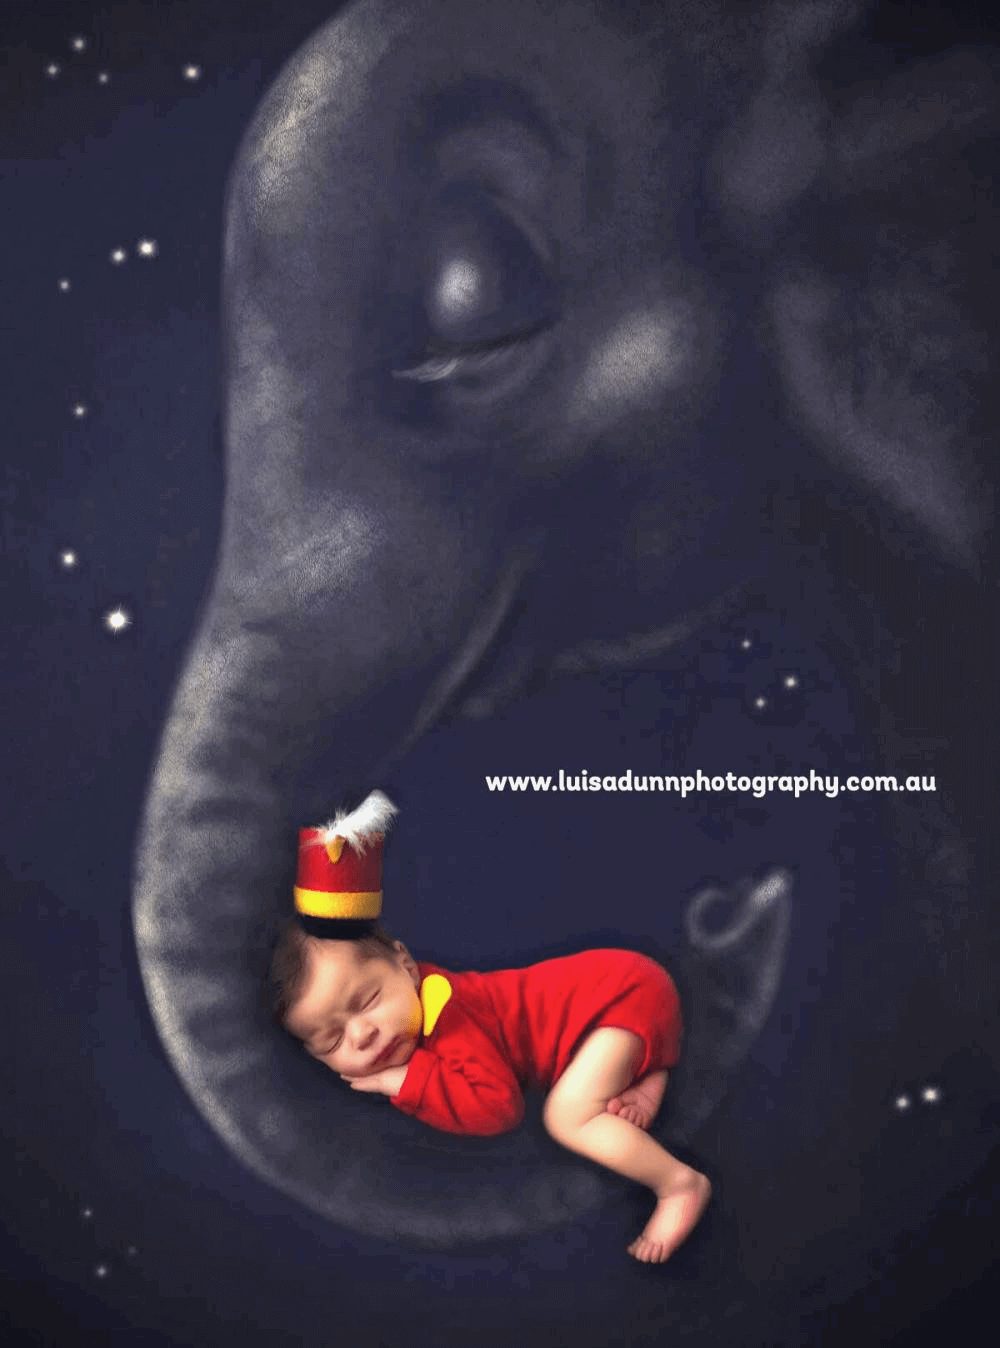
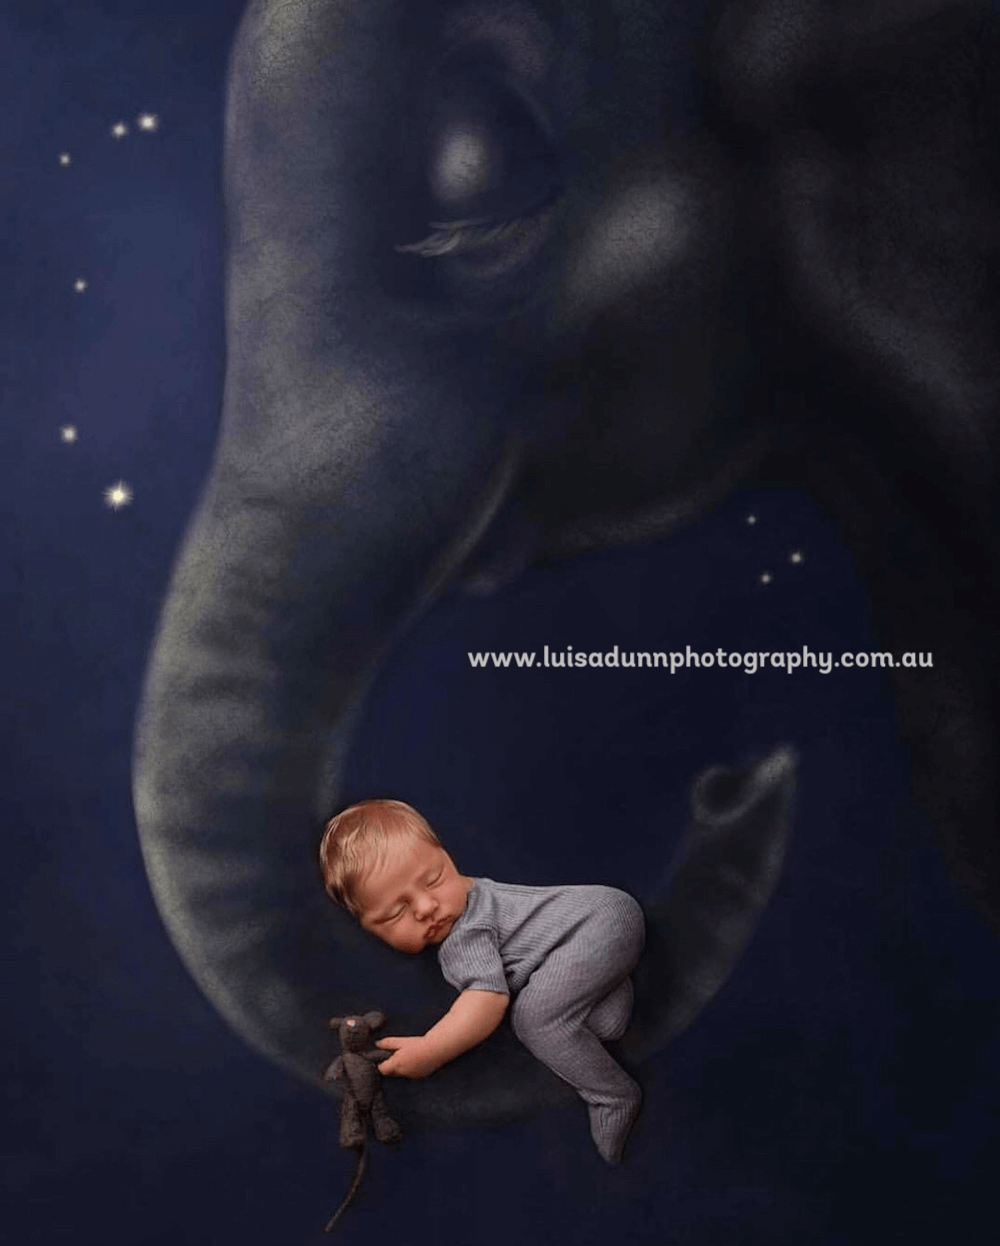
newborn gallery and contact form text
replaced elephant image with luisa's elephant image. removed "at right" from contact form text. made contact form text editable

diff --git a/_includes/site-footer.html b/_includes/site-footer.html
@@ -2,14 +2,14 @@
 
 <footer class="bg-connect" id="connect">
   <!-- <footer id="connect"> -->
-  <div class="contact-form grid-middle-center">
+  <div class="contact-form grid-middle-center editable">
     <div class="headline col-6_xs-12">
 
       <h2>Let's Connect</h2>
 
       <p>Looking for a hand-painted, personalized gift idea? Visit my <a class="shop" target="_blank" href="https://www.etsy.com/shop/ArtisticHomePortrait">Etsy shop</a> for more info, reviews, pricing, and to place your custom portrait order.</p>
       <br>
-      <p>Could your children's book project use a creative, thoughtful artist's touch? Have a question for me? Send me an<a class="email" <a target="_blank" href="mailto:elyse.biz1@gmail.com"> email</a>, or fill out the form at right to start the conversation.</p>
+      <p>Could your children's book project use a creative, thoughtful artist's touch? Have a question for me? Send me an<a class="email" <a target="_blank" href="mailto:elyse.biz1@gmail.com"> email</a>, or fill out the contact form to start the conversation.</p>
       <br>
 
       <div class="social">

diff --git a/index.html b/index.html
@@ -116,6 +116,8 @@ newborn-gallery:
     heading: "Image ©Luisa Dunn Photography / www.luisadunnphotography.com.au"
   - featured_image: /images/newborn-backgrounds/newborn-8.png
     heading: "Image ©It's Sunny in Seattle / Signature Painted with Sunshine / www.itssunnyinseattle.com"
+  - featured_image: /images/newborn-backgrounds/newborn-15.png
+    heading: "Image ©Luisa Dunn Photography / www.luisadunnphotography.com.au"
   - featured_image: /images/newborn-backgrounds/newborn-6.png
     heading: "Image ©Luisa Dunn Photography / www.luisadunnphotography.com.au"
   - featured_image: /images/newborn-backgrounds/newborn-9.png
